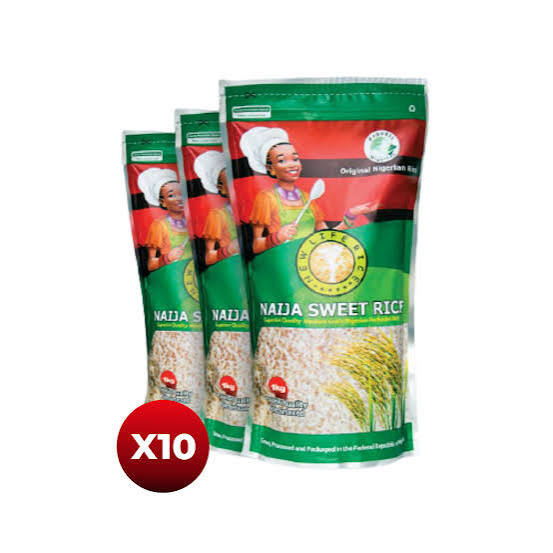
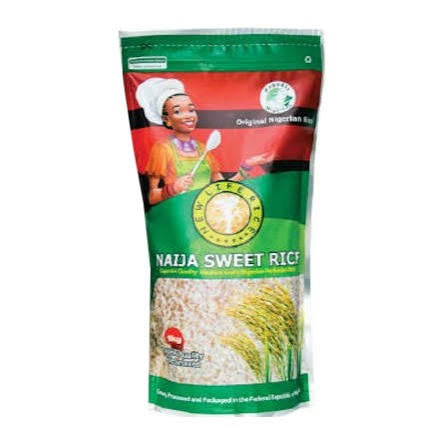
Rename brand to Naija Sweet Rice; single-pouch 1kg photo
- Brand name, product name and URL (/p/naija-sweet-rice) updated; old URL redirects
- Seed renames an existing product in place, keeping its prices, stock and orders
- 1kg is sold singly: photo cropped to one pouch (no pack badge)

Claude-Session: https://claude.ai/code/session_012ndjyKuDJ6BdR6tb5m9bi2

diff --git a/prisma/seed.ts b/prisma/seed.ts
@@ -29,12 +29,18 @@ const NEARBY_TOWNS = ["Suleja", "Madalla", "Zuba", "Mararaba", "Nyanya", "Karu",
 const slugify = (s: string) => s.toLowerCase().replace(/[^a-z0-9]+/g, "-").replace(/(^-|-$)/g, "");
 
 async function main() {
+  // The brand is Naija Sweet Rice. Rename the product from its earlier working name if it exists.
+  const legacy = await db.product.findUnique({ where: { slug: "niger-sweet-rice" } });
+  if (legacy && !(await db.product.findUnique({ where: { slug: "naija-sweet-rice" } }))) {
+    await db.product.update({ where: { id: legacy.id }, data: { slug: "naija-sweet-rice", name: "Naija Sweet Rice" } });
+  }
+
   const product = await db.product.upsert({
-    where: { slug: "niger-sweet-rice" },
+    where: { slug: "naija-sweet-rice" },
     update: {},
     create: {
-      slug: "niger-sweet-rice",
-      name: "Niger Sweet Rice",
+      slug: "naija-sweet-rice",
+      name: "Naija Sweet Rice",
       description:
         "Clean, stone-free parboiled rice that cooks soft, separate and sweet. Perfect for jollof, fried rice, white rice and tuwo shinkafa. Available in 50kg, 25kg, 5kg and 1kg bags.",
     },

diff --git a/src/app/a/[code]/route.ts b/src/app/a/[code]/route.ts
@@ -4,7 +4,7 @@ import { hashIp } from "@/lib/crypto";
 import { rateLimit } from "@/lib/rate-limit";
 
 /**
- * Affiliate link: /a/CODE (shop) or /a/CODE?p=niger-sweet-rice&size=25 (a product).
+ * Affiliate link: /a/CODE (shop) or /a/CODE?p=naija-sweet-rice&size=25 (a product).
  * Remembers the affiliate for 30 days (last click wins) and counts the click.
  */
 export async function GET(req: NextRequest, ctx: RouteContext<"/a/[code]">) {

diff --git a/src/lib/site.ts b/src/lib/site.ts
@@ -1,7 +1,7 @@
 /** Public store details. Set in env so they match Google Business Profile exactly (NAP consistency). */
 export const site = {
   /** Brand name shown everywhere. One place to change it. */
-  name: process.env.NEXT_PUBLIC_BRAND_NAME ?? "Niger Sweet Rice",
+  name: process.env.NEXT_PUBLIC_BRAND_NAME ?? "Naija Sweet Rice",
   get legalName() {
     return `${this.name} Flagship Store`;
   },

diff --git a/next.config.ts b/next.config.ts
@@ -48,6 +48,9 @@ const nextConfig: NextConfig = {
       },
     },
   },
+  async redirects() {
+    return [{ source: "/p/niger-sweet-rice", destination: "/p/naija-sweet-rice", permanent: true }];
+  },
   async headers() {
     return [
       { source: "/:path*", headers: securityHeaders },

diff --git a/docs/DEVELOPMENT_PLAN.md b/docs/DEVELOPMENT_PLAN.md
@@ -1,4 +1,4 @@
-# Niger Sweet Rice: Flagship Store, Abuja. Development Plan
+# Naija Sweet Rice: Flagship Store, Abuja. Development Plan
 
 This plan turns the rough brief into a buildable spec: scope, architecture, data model, pages, APIs, and a phased delivery schedule. Anything marked **[ASSUMPTION]** is a reasonable default. Confirm or change it before the phase that depends on it. Open questions are collected in §12.
 
@@ -8,7 +8,7 @@ This plan turns the rough brief into a buildable spec: scope, architecture, data
 
 | # | Question | Decision | Effect on the build |
 |---|---|---|---|
-| 1 | Bag sizes | **50kg, 25kg, 5kg, 1kg.** Prices to be set later | Prices start empty ("Price coming soon"). Staff set them in **/ops/prices** with no code change, and every change is logged |
+| 1 | Bag sizes | **50kg, 25kg, 5kg, 1kg** (1kg sold singly). Prices to be set later | Prices start empty ("Price coming soon"). Staff set them in **/ops/prices** with no code change, and every change is logged |
 | 2 | Back office | **A small `/ops` staff screen is OK** | `/ops` holds prices & stock and delivery zones now; orders, approvals and returns come in later phases |
 | 3 | Affiliate rewards | **Coupons only: purchase points and discount offers.** No cash commission | Everyone (buyers, referrers, affiliates) earns points that convert into coupons. No payouts, no wallet |
 | 4 | Pay on delivery | **No, not for now** | Paystack prepaid only |
@@ -85,7 +85,7 @@ You asked for a React app. I recommend **Next.js (a React framework)** over a pl
 ## 4. Feature specification
 
 ### 4.1 Catalogue and product variants
-- Product = rice line (e.g. *Niger Sweet Rice Premium Parboiled*). Variant = bag size.
+- Product = rice line (e.g. *Naija Sweet Rice Premium Parboiled*). Variant = bag size.
 - Each variant has: `sizeKg`, `sku`, `retailPrice`, `wholesalePrice`, `compareAtPrice` (for promos), `stockQty`, `weightForDelivery`.
 - The product page shows a size selector with a per-kg price ("₦X/kg") so buyers can compare sizes. It shows "Low stock" below a threshold and "Notify me" when out of stock.
 - Structured data: `Product`, `Offer`, `AggregateRating` JSON-LD on every product page.
@@ -175,7 +175,7 @@ Pay-on-delivery: **[DECISION NEEDED]**. Common in Nigeria, but it carries fraud 
 - Area landing pages: `/delivery/abuja/wuse`, `/garki`, `/maitama`, `/asokoro`, `/gwarinpa`, `/kubwa`, `/lugbe`, `/jabi`, `/life-camp`, `/apo`, `/lokogoma` and so on. Each has real content: delivery fee, typical delivery time, nearby landmarks. No duplicate filler text.
 - Use the same Name, Address and Phone everywhere (site footer, Google profile, Facebook, Instagram, Nigerian directories such as VConnect and BusinessList.ng).
 - Content: a "Where to buy rice in Abuja" page, recipe blog (jollof, fried rice, tuwo shinkafa), and a bag-size buying guide ("How long does a 50kg bag last a family of 6?").
-- Target keywords: "buy rice in Abuja", "50kg bag of rice price Abuja", "rice delivery Abuja", "Niger sweet rice", "parboiled rice Abuja".
+- Target keywords: "buy rice in Abuja", "50kg bag of rice price Abuja", "rice delivery Abuja", "Naija sweet rice", "Naija Sweet Rice Abuja", "parboiled rice Abuja".
 
 ---
 
@@ -396,7 +396,7 @@ Estimates assume 1 full-stack developer plus part-time design input. Each phase 
 3. Domain, hosting (Vercel), Postgres (Neon) and, if more than one server, Upstash Redis
 4. Scheduled call to `/api/cron/release-reservations` every 10 minutes with `CRON_SECRET`
 5. Real store address, phone, map coordinates; Google Business Profile with the same details
-6. A photo of the 50kg bag (it currently uses the 25kg photo) and a single-pouch 1kg photo if sold singly
+6. A photo of the 50kg bag (it currently uses the 25kg photo)
 7. Confirmed prices, stock and delivery fees in `/ops`
 8. GA4 measurement ID and Meta Pixel ID (optional)
 9. Lawyer review of privacy policy and terms

diff --git a/README.md b/README.md
@@ -1,6 +1,6 @@
-# Niger Sweet Rice: Flagship E-commerce Store (Abuja)
+# Naija Sweet Rice: Flagship E-commerce Store (Abuja)
 
-Online store for the Niger Sweet Rice brand: 50kg, 25kg, 5kg and 1kg bags, delivery across Abuja and
+Online store for the Naija Sweet Rice brand: 50kg, 25kg, 5kg and 1kg bags, delivery across Abuja and
 nearby towns, purchase points → discount coupons, bag-replacement returns.
 
 - **Plan & roadmap:** [docs/DEVELOPMENT_PLAN.md](docs/DEVELOPMENT_PLAN.md)
